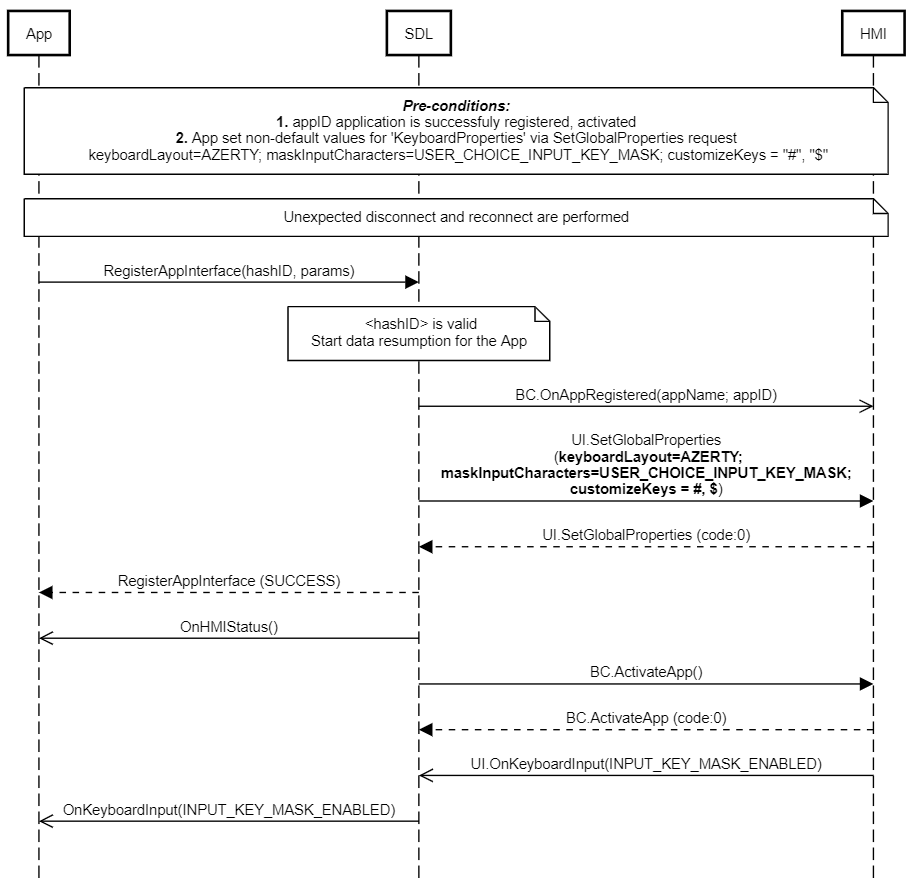
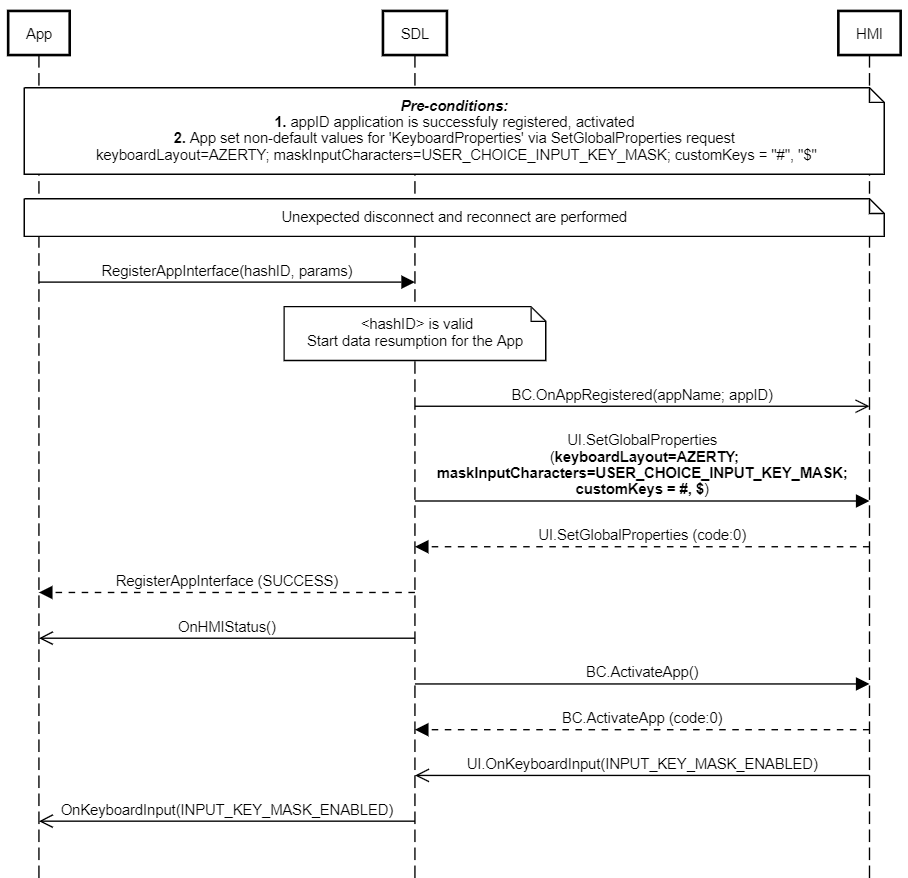
update per proposal revision

diff --git a/docs/Common/Structs/index.md b/docs/Common/Structs/index.md
@@ -175,7 +175,7 @@
 |limitedCharacterList|String|false|array: true<br>minsize: 1<br>maxsize: 100<br>maxlength: 1||
 |autoCompleteList|String|false|array: true<br>minsize: 0<br>maxsize: 100<br>maxlength: 1000||
 |maskInputCharacters|[Common.KeyboardInputMask](../enums/#keyboardinputmask)|false||Allows an app to mask entered characters on HMI|
-|customizeKeys|String|false|maxlength: 1<br>minsize: 1<br>maxsize: 10<br>array: true|Array of special characters to show in customizable Keys.<br>If omitted, keyboard will show default special characters.|
+|customKeys|String|false|maxlength: 1<br>minsize: 1<br>maxsize: 10<br>array: true|Array of special characters to show in customizable Keys.<br>If omitted, keyboard will show default special characters.|
 
 ### Choice
 
@@ -1187,11 +1187,10 @@ There are no defined parameters for this struct
 |Name|Type|Mandatory|Additional|Description|
 |:---|:---|:--------|:---------|:----------|
 |maskInputCharactersSupported|Boolean|false||Availability of capability to mask input characters using keyboard.<br>True: Available, False: Not Available.|
-|supportedKeyboardLayouts|[Common.KeyboardLayout](../enums/#keyboardlayout)|false|minsize: 1<br>maxsize: 1000<br>array: true|Supported keyboard layouts by HMI.|
-|configurableKeys|[Common.ConfigurableKeyboards](../structs/#configurablekeyboards)|false|minsize: 1<br>maxsize: 1000<br>array: true|Get Number of Keys for Special characters, App can customize as per their needs.|
+|supportedKeyboards|Common.KeyboardLayoutCapability|false|minsize: 1<br>maxsize: 1000<br>array: true|Capabilities of supported keyboard layouts by HMI.|
 
-### ConfigurableKeyboards
+### KeyboardLayoutCapability
 |Name|Type|Mandatory|Additional|Description|
 |:---|:---|:--------|:---------|:----------|
 |keyboardLayout|[Common.KeyboardLayout](../enums/#keyboardlayout)|true|||
-|numConfigurableKeys|Integer|true|||
+|numConfigurableKeys|Integer|true|minvalue: 0<br>maxvalue: 10|Number of keys available for special characters, App can customize as per their needs.|

diff --git a/docs/BasicCommunication/OnSystemCapabilityUpdated/index.md b/docs/BasicCommunication/OnSystemCapabilityUpdated/index.md
@@ -18,13 +18,13 @@ Purpose
     * `menuName` and `templateTitle` should be included, if they are visible on HMI.
     * `mainField1-4`, `statusBar` and `mediaTrack` should not be included if OEM implemented the `WEB_VIEW` template without these text fields.
     * `availabletemplates`, `buttonCapabilities` and `imageTypeSupported` should reflect the general capabilities of the window/system.
-5. HMI may send `KeyboardCapabilities` within OnSystemCapabilityUpdated notification which may include `maskInputCharactersSupported`, `supportedKeyboardLayouts` and `configurableKeys` parameters.
+5. HMI may send `KeyboardCapabilities` within OnSystemCapabilityUpdated notification which may include `maskInputCharactersSupported`, `supportedKeyboards` and `configurableKeys` parameters.
 
 !!! NOTE
 
 1. Template `WEB_VIEW` is only allowed for the WebEngine applications with `AppHMIType`=`WEB_VIEW`.
 
-2. In case HMI sends OnSystemCapabilityUpdated notification with `KeyboardCapabilities`, `supportedKeyboardLayouts`  and without information about `numConfigurableKeys`, SDL would provide `KeyboardCapabilities` to app with `numConfigurableKeys` set to zero.
+2. In case HMI sends OnSystemCapabilityUpdated notification with `KeyboardCapabilities`, `supportedKeyboards` and without information about `numConfigurableKeys`, SDL would provide `KeyboardCapabilities` to app with `numConfigurableKeys` set to zero.
 !!!
 
 #### Parameters

diff --git a/docs/UI/SetGlobalProperties/index.md b/docs/UI/SetGlobalProperties/index.md
@@ -76,7 +76,7 @@ _**Important Note:**_ If HMI-defined VR commands are accessible together with th
   * display the complete list of available VR commands (SDL-defined and HMI-defined ones) when the User activates VR.
 
 4. HMI displays the in-application menu for every active application upon the User's request. It must contain SDL-requested commands (UI.AddCommand) and sub-menus (UI.AddSubMenu). SDL provides the values for the name (`menuTitle` parameter) and for the icon (`menuIcon` parameter) of this in-application menu. The values for in-application menu and touchscreen keyboard are allowed by SDL Core for navigation type of application only.
-5. In case SDL sends request with some values in `customizeKeys` array, HMI must:
+5. In case SDL sends request with some values in `customKeys` array, HMI must:
     * use these values to change the special characters shown in customizable keys
     * keep default values in the remaining keys, if the array is less than or equal to customizable keys amount
 
@@ -102,8 +102,8 @@ SetGlobalProperties for active app on HMI with VR activation
 |||
 
 |||
-SetGlobalProperties Customize Keys
-![SetGlobalProperties](./assets/SetGlobalPropertiesCustomizeKeys.png)
+SetGlobalProperties Custom Keys
+![SetGlobalProperties](./assets/SetGlobalPropertiesCustomKeys.png)
 |||
 
 |||
